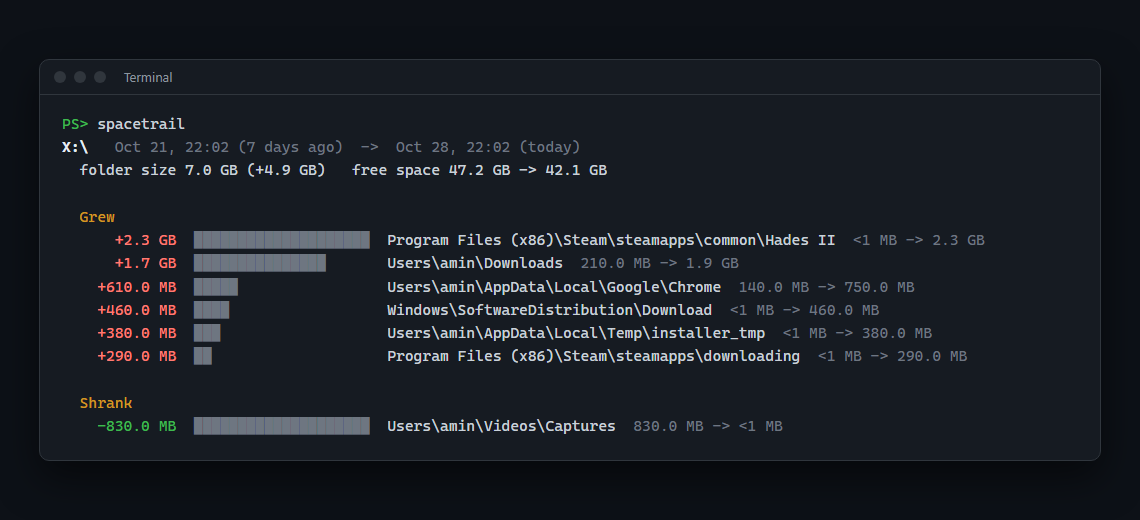
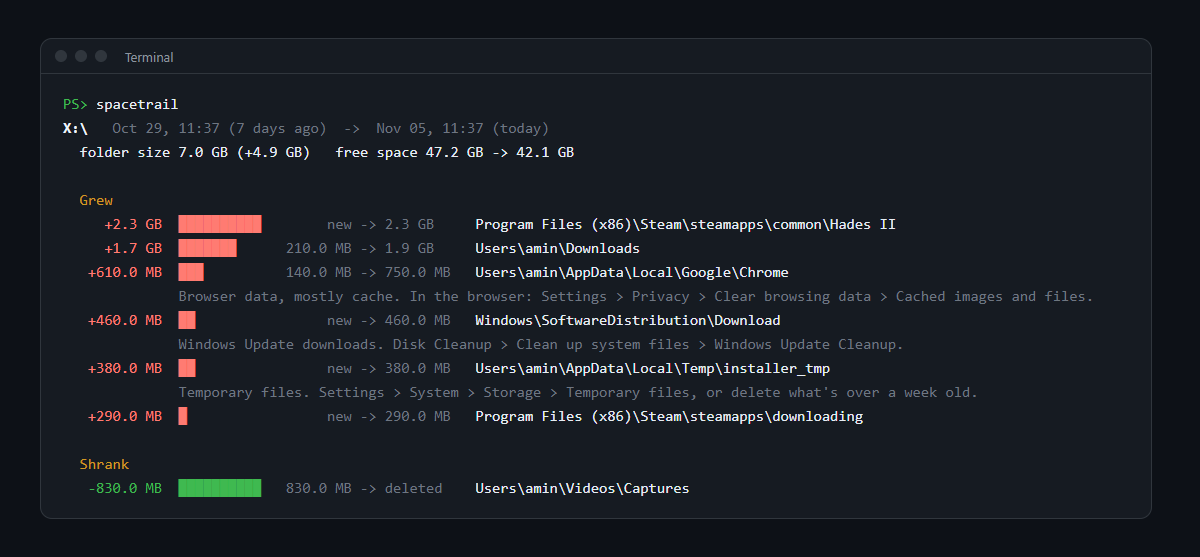
Show the current report in the README image and bump to 0.3.1

diff --git a/src/spacetrail/__init__.py b/src/spacetrail/__init__.py
@@ -1,1 +1,1 @@
-__version__ = "0.3.0"
+__version__ = "0.3.1"
